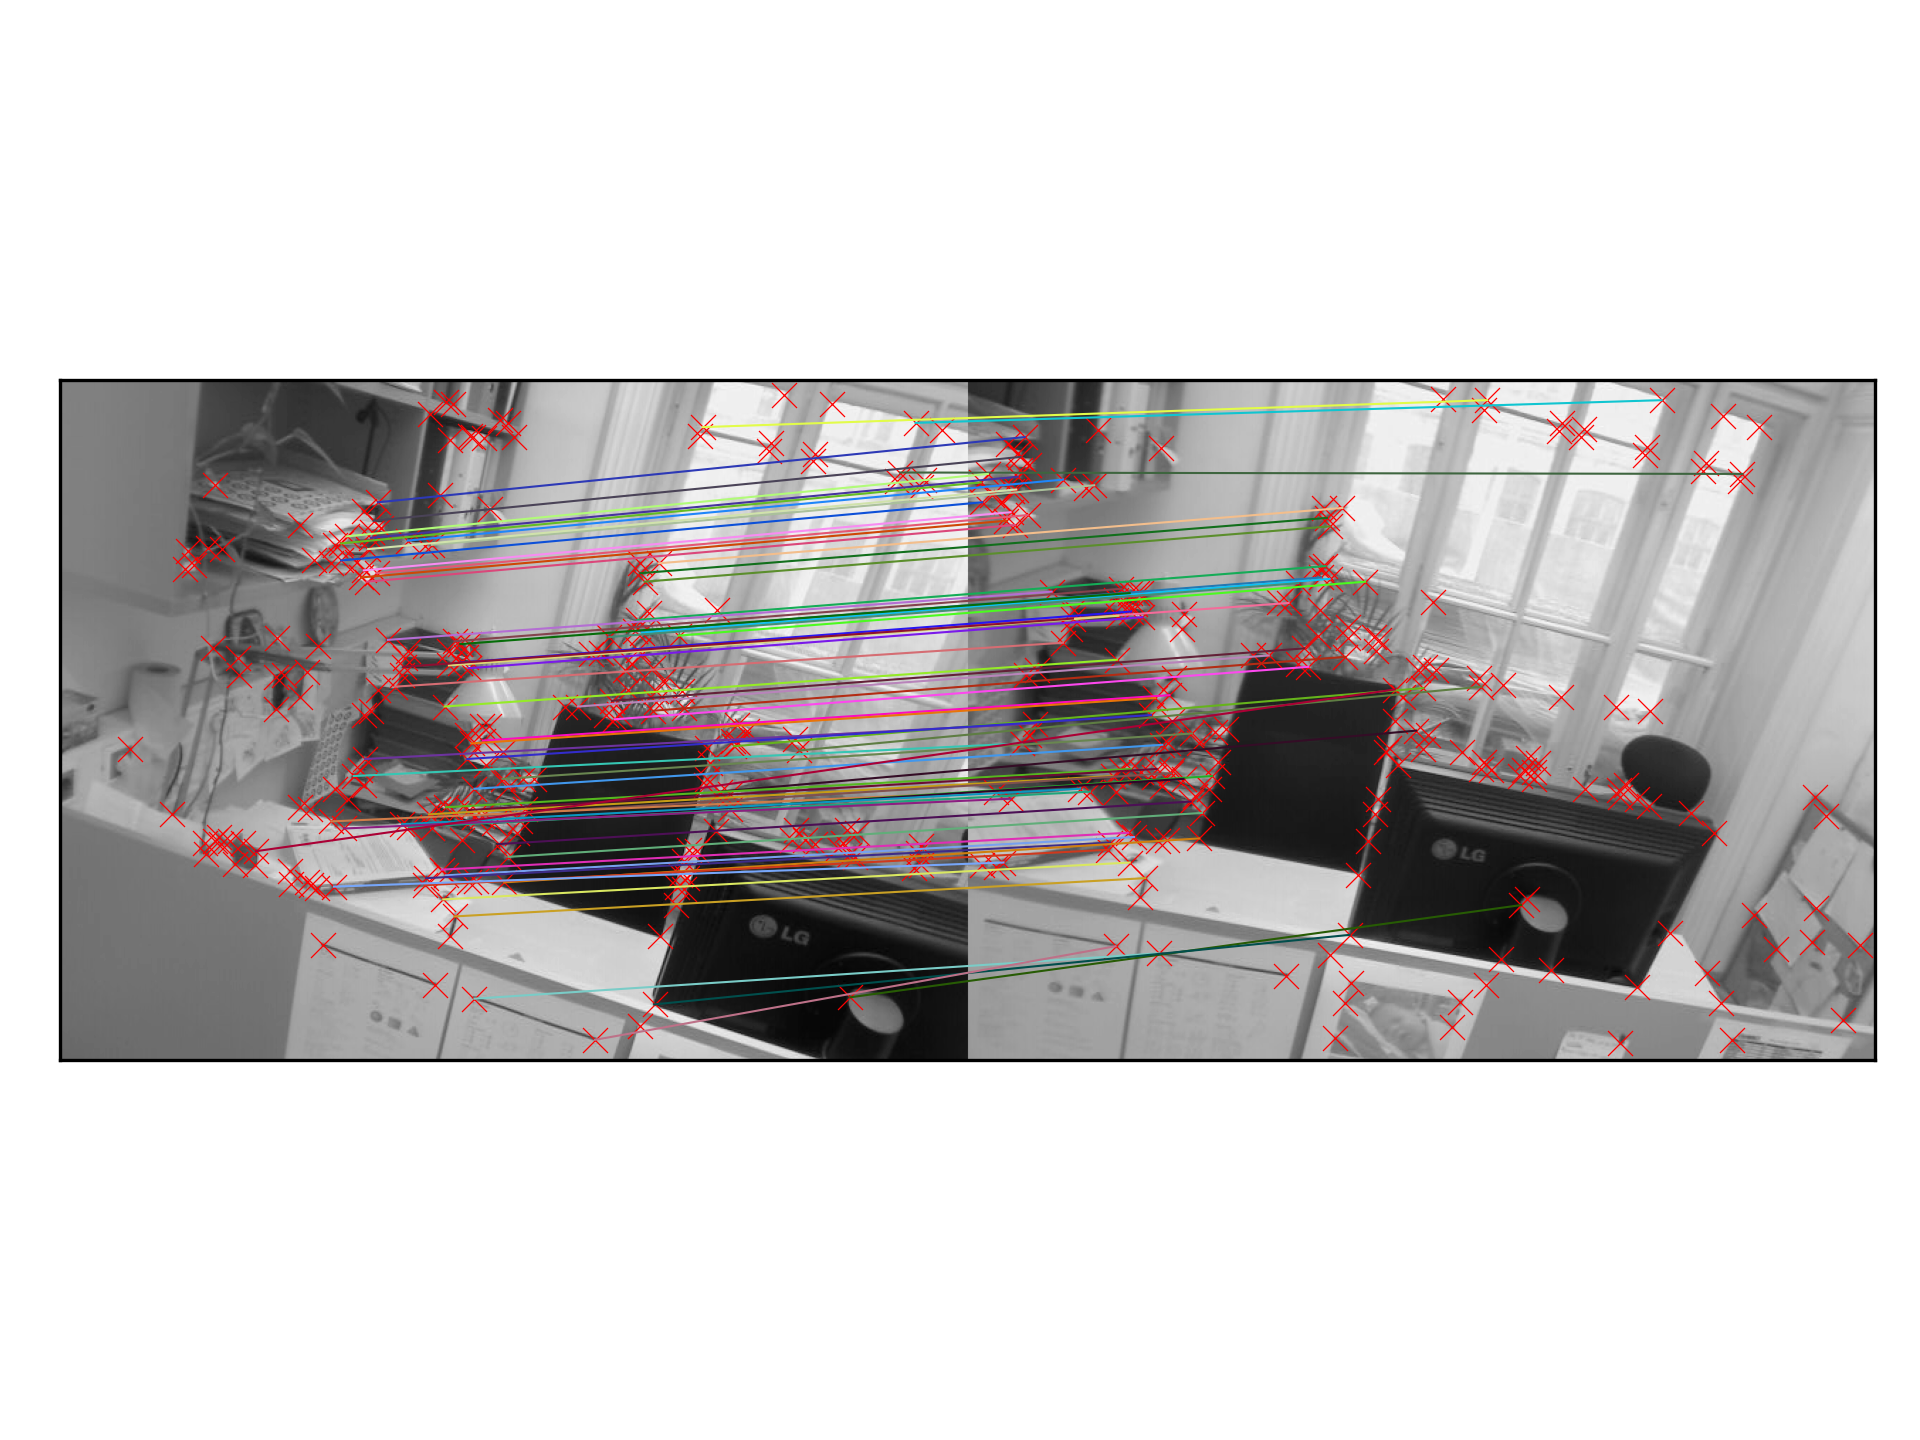
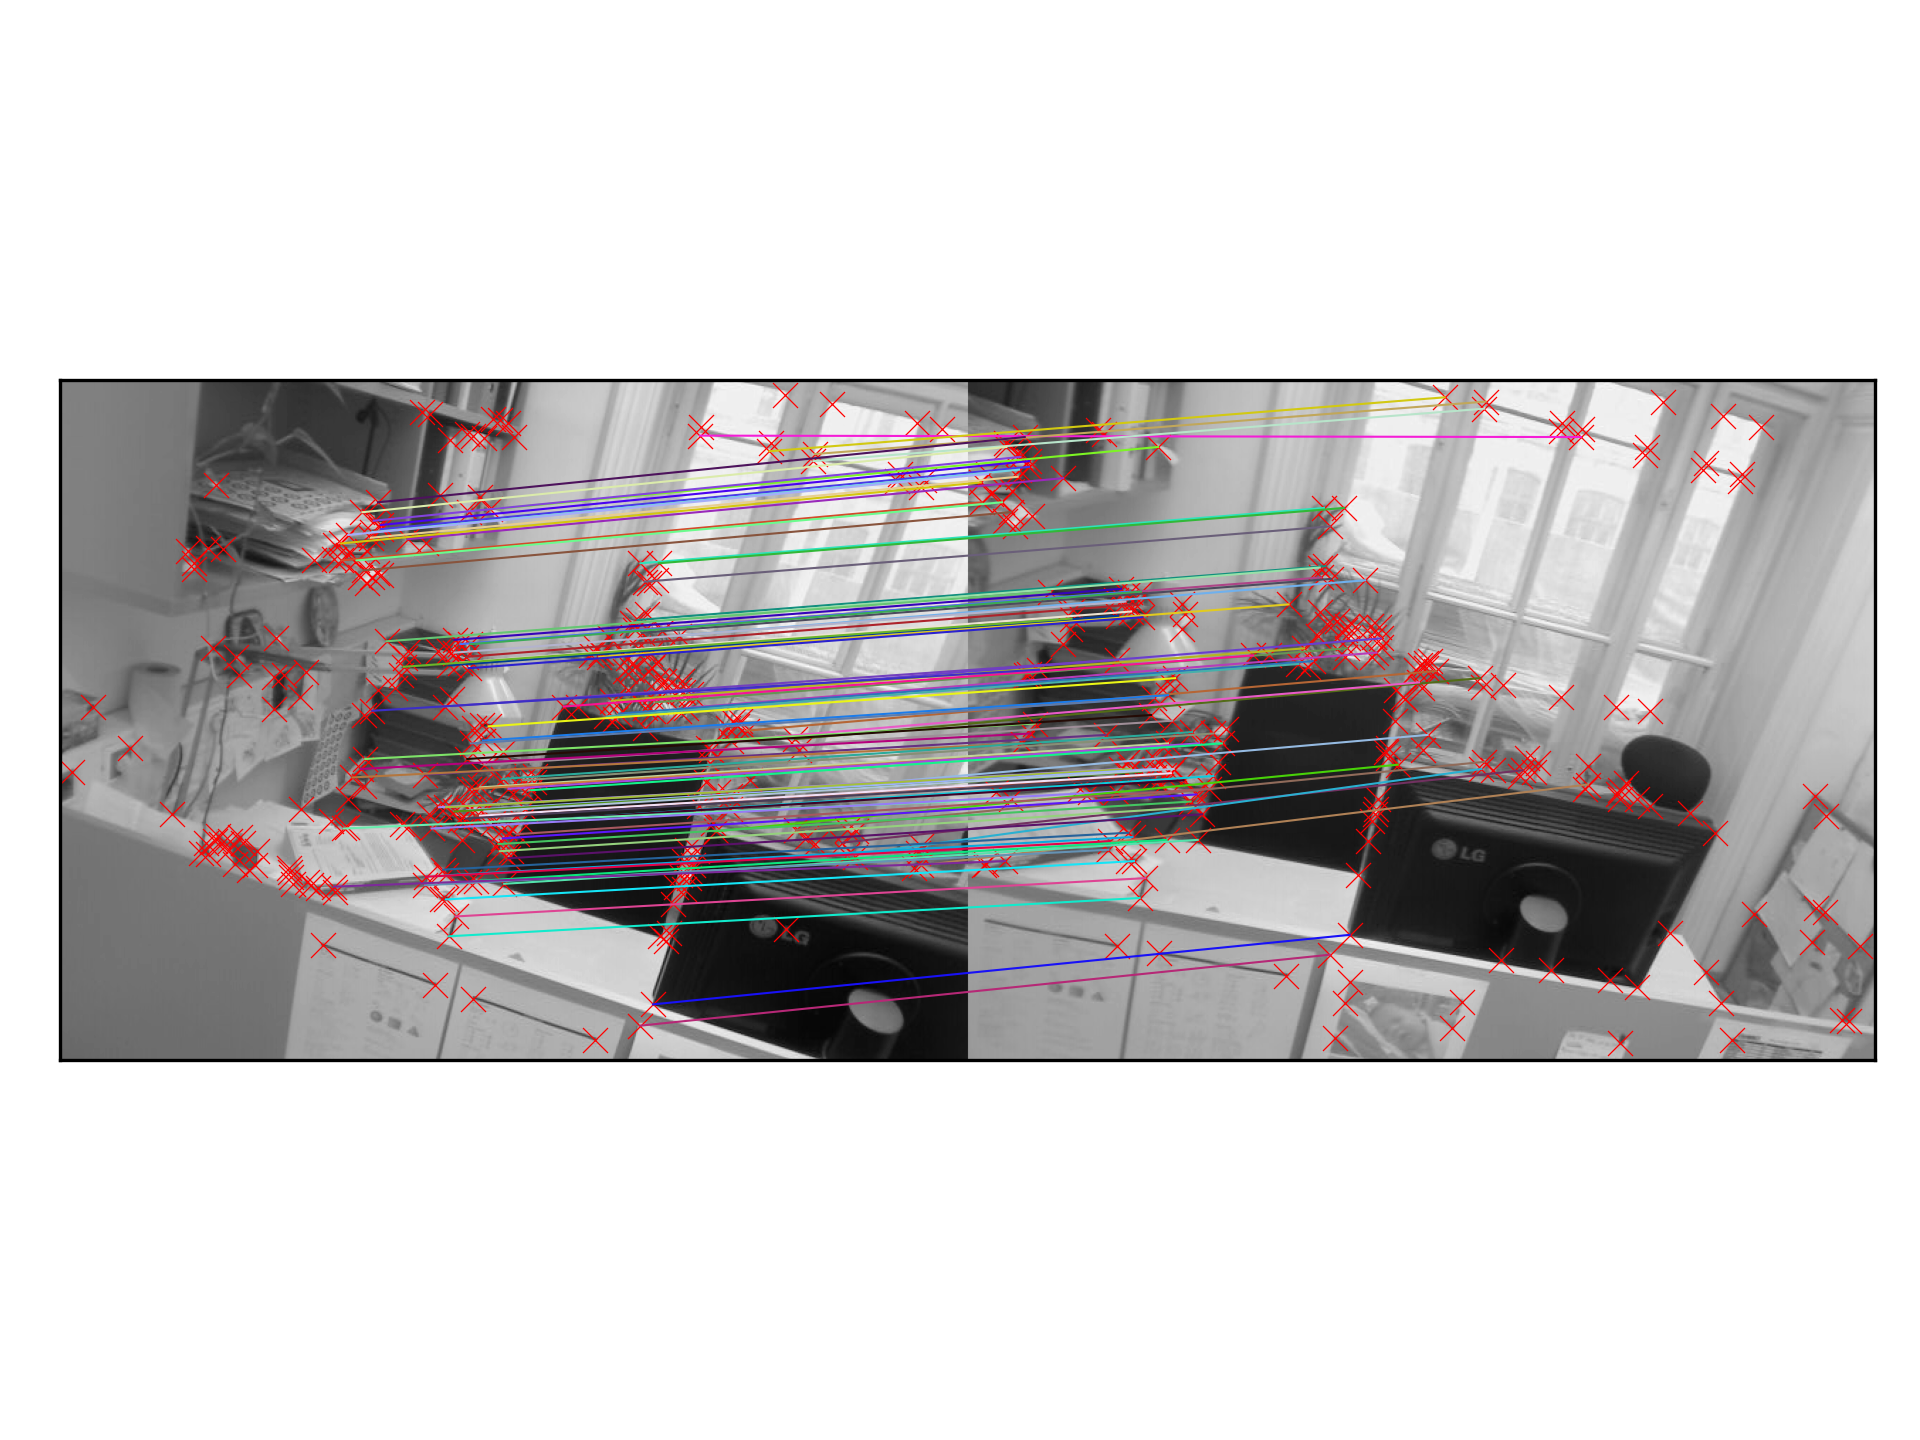
small improvements

diff --git a/exercise2/report/report.tex b/exercise2/report/report.tex
@@ -71,6 +71,8 @@ This experiment deals with interest point detection using the Harris Corner Dete
 
 The first blurring step determines the width of the derivative-of-Gaussian operator and therefore the thickness of the detected edges. As higher values of $\sigma_1$ yield thicker edges, the maximum intensity values decrease. As the threshold $t$ remains unaltered, weaker corners are not detected any longer. This claim is supported by Figure \ref{corners_vs_sigma1}, which indicates a roughly linear decrease of detected corners with increasing $\sigma_1$.
 
+Another interesting aspect is that high values of $\sigma_1$ lead to a offset between the corner and the detected interest point. This is due to the smoothing which leads to wide edges. In the following, the non-maximum suppression might select a different position for the corner.
+
 \begin{figure} [h!]
 \includegraphics[width=9cm]{ex1_1_plot}
 \centering
@@ -78,10 +80,8 @@ The first blurring step determines the width of the derivative-of-Gaussian opera
 \label{corners_vs_sigma1}
 \end{figure}
 
-%TODO too large sigma -> exact position of corners lost (offset might emerge)
-
 \subsection{Influence of second blurring step}
-The parameter $\sigma_2$ represents the width of the Gaussian window function in the Harris Detector. Narrow window functions tend to yield noisy values of the autocorrelation, higher values of $\sigma_2$ tend to eliminate noise and yield only more significant corners. Figure \ref{corners_vs_sigma2} shows this behaviour exemplarily.
+The parameter $\sigma_2$ represents the width of the Gaussian window function in the Harris Detector. Narrow window functions tend to yield noisy values of the autocorrelation, higher values of $\sigma_2$ tend to eliminate noise and yield only more significant corners. Figure \ref{corners_vs_sigma2} shows this behaviour exemplarily. As described in the previous section, small offsets appear for high values of $\sigma_2$ as well.
 
 \begin{figure} [h!]
 \begin{subfigure}[b]{\textwidth}
@@ -99,8 +99,6 @@ The parameter $\sigma_2$ represents the width of the Gaussian window function in
 \caption{Detected corners for different values of $\sigma_2$ with $\sigma_1 = 1$, $k = 0.04$, $t = 0.01$.}
 \label{corners_vs_sigma2}
 \end{figure}
-
-%TODO again offsetting 
 
 \clearpage
 

diff --git a/exercise2/descriptor_functions.py b/exercise2/descriptor_functions.py
@@ -96,19 +96,22 @@ def block_orientations(patch: np.ndarray) -> np.ndarray:
     # 8 bins of the histogram
     bins = np.array(
         [-np.pi, -3 / 4 * np.pi, -1 / 2 * np.pi, -1 / 4 * np.pi, 0, 1 / 4 * np.pi, 1 / 2 * np.pi, 3 / 4 * np.pi])
+    orientations_binned = np.digitize(orientations, bins)
 
     hist = np.zeros((1, 0))
     for x in range(4):
         for y in range(4):
-            #block = patch[4*x:4*x+4, 4*y:4*y+4]
-            grad_block = grad[4*x:4*x+4, 4*y:4*y+4]
-            orientations_block = orientations[4*y:4*y+4, 4*y:4*y+4]
-            orientations_binned = np.digitize(orientations_block, bins)
-            h = np.zeros((1, 8))
+            grad_block = grad[4 * x:4 * x + 4, 4 * y:4 * y + 4]
+            binned = orientations_binned[4*x:4*x+4, 4*y:4*y+4]
+            h = np.zeros((1, bins.size))
             for i in range(bins.size):
                 # histogram weight = gradient (achieved by multiplication)
-                orientations_i = np.multiply(np.where(orientations_binned == i+1, 1, 0), grad_block)
+                orientations_i = np.multiply(np.where(binned == i+1, 1, 0), grad_block)
+                # reduce orientations_i matrix
                 h[0, i] = np.sum(orientations_i)
+            h_max = np.max(h)
+            if h_max != 0.0:
+                h = h / h_max
             hist = np.hstack((hist, h))
     return hist
 

diff --git a/exercise2/main_descriptors_image.py b/exercise2/main_descriptors_image.py
@@ -28,8 +28,8 @@ if __name__ == '__main__':
     img_path_2 = 'desk/Image-03.jpg'
 
     # parameters <<< try different settings!
-    sigma1 = 1
-    sigma2 = 2
+    sigma1 = 0.8
+    sigma2 = 1.5
     threshold = 0.01
     k = 0.04
     patch_size = 11
